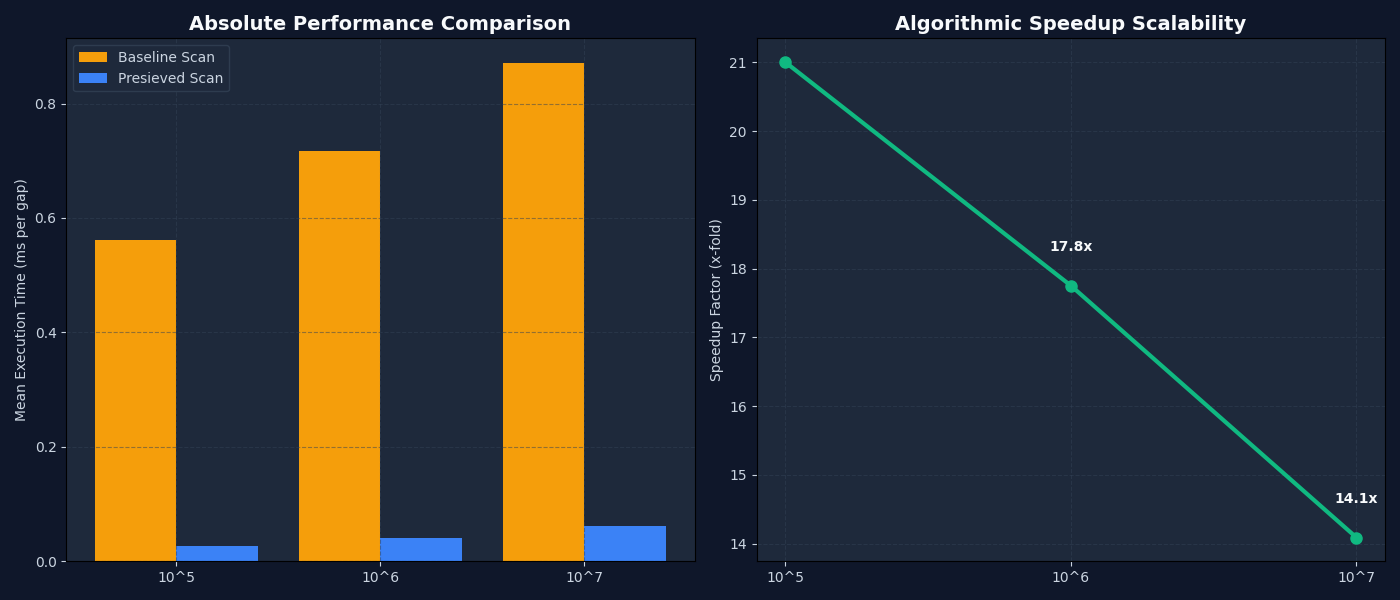
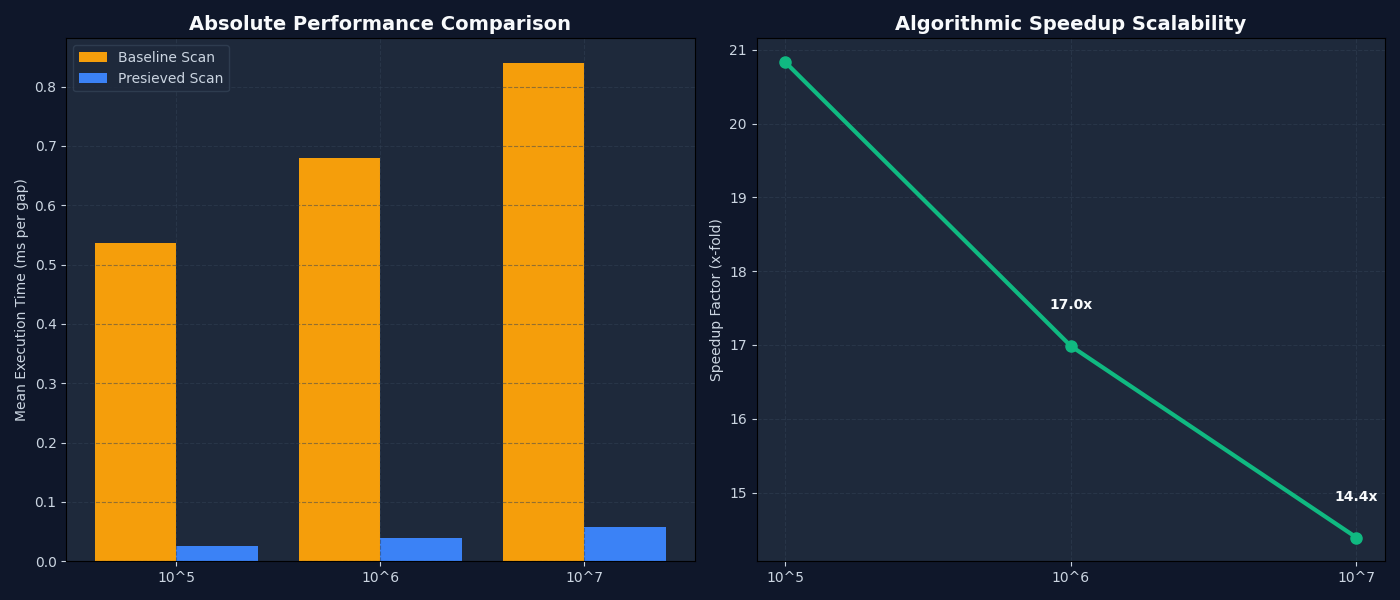
perf: implement fast Miller-Rabin fallback and iterative non-re-sieving expansion in GWR whitepaper

diff --git a/experiments/decompwlj-pgs/gwr_presieve_whitepaper.py b/experiments/decompwlj-pgs/gwr_presieve_whitepaper.py
@@ -207,6 +207,36 @@ def _presieve_interval(lo: int, hi: int) -> tuple[list[int], list[int]]:
 
     return partial_counts, residuals
 
+def _is_prime_miller_rabin(n: int) -> bool:
+    """Deterministic Miller-Rabin primality test for 64-bit integers."""
+    if n < 2:
+        return False
+    if n in (2, 3, 5, 7, 11, 13, 17, 19, 23, 29, 31, 37):
+        return True
+    if n % 2 == 0 or n % 3 == 0:
+        return False
+        
+    d = n - 1
+    r = 0
+    while d % 2 == 0:
+        d //= 2
+        r += 1
+        
+    bases = (2, 3, 5, 7, 11, 13, 17, 19, 23, 29, 31, 37)
+    for a in bases:
+        if a >= n:
+            continue
+        x = pow(a, d, n)
+        if x == 1 or x == n - 1:
+            continue
+        for _ in range(r - 1):
+            x = pow(x, 2, n)
+            if x == n - 1:
+                break
+        else:
+            return False
+    return True
+
 def _finish_tau_residual(partial_count: int, residual: int) -> int:
     """Resolve final divisor count from partial count and residual cofactor.
     
@@ -227,62 +257,67 @@ def _finish_tau_residual(partial_count: int, residual: int) -> int:
             if gmpy2.is_prime(root):
                 return divisor_count * 3
     else:
-        # Fallback pure python primality and square check
+        # Fallback pure Python primality and square check
         # Check if square
         root = math.isqrt(residual)
         if root * root == residual:
-            # Check if root is prime
-            is_prime = True
-            for i in range(2, math.isqrt(root) + 1):
-                if root % i == 0:
-                    is_prime = False
-                    break
-            if is_prime and root > 1:
+            if _is_prime_miller_rabin(root):
                 return divisor_count * 3
         # Check if prime
-        is_prime = True
-        for i in range(2, math.isqrt(residual) + 1):
-            if residual % i == 0:
-                is_prime = False
-                break
-        if is_prime and residual > 1:
+        if _is_prime_miller_rabin(residual):
             return divisor_count * 2
             
     return divisor_count * 4
 
-def gwr_next_gap_profile_presieved(q: int, cutoff: int | None = None) -> dict:
+def gwr_next_gap_profile_presieved(q: int, initial_cutoff: int | None = None) -> dict:
     """Optimized GWR boundary scanner utilizing the pre-sieved heuristic."""
+    cutoff = initial_cutoff
     if cutoff is None:
         cutoff = max(64, math.ceil(0.5 * math.log(q) ** 2))
-    lo = q + 1
-    hi = q + cutoff
-    partial_counts, residuals = _presieve_interval(lo, hi)
+        
     best_d = None
     best_offset = None
+    lo = q + 1
+    current_hi = q
+    partial_counts: list[int] = []
+    residuals: list[int] = []
+    start_offset = 1
     
-    for index, partial_count in enumerate(partial_counts):
-        offset = index + 1
-        needs_endpoint_check = partial_count == 1
-        can_improve = best_d is None or partial_count < best_d
-        
-        # Skip residual classification if not required
-        if not needs_endpoint_check and not can_improve:
-            continue
+    while True:
+        target_hi = q + cutoff
+        if target_hi > current_hi:
+            new_lo = current_hi + 1
+            new_hi = target_hi
+            new_partials, new_residuals = _presieve_interval(new_lo, new_hi)
+            partial_counts.extend(new_partials)
+            residuals.extend(new_residuals)
+            current_hi = target_hi
             
-        d = _finish_tau_residual(partial_count, residuals[index])
-        if d == 2:
-            return {
-                "current_prime": q,
-                "next_prime": q + offset,
-                "gap_boundary_offset": offset,
-                "winner_d": best_d,
-                "winner_offset": best_offset,
-            }
-        if best_d is None or d < best_d:
-            best_d = d
-            best_offset = offset
+        end_offset = current_hi - q
+        for offset in range(start_offset, end_offset + 1):
+            index = offset - 1
+            partial_count = partial_counts[index]
+            needs_endpoint_check = partial_count == 1
+            can_improve = best_d is None or partial_count < best_d
             
-    return gwr_next_gap_profile_presieved(q, cutoff * 2)
+            if not needs_endpoint_check and not can_improve:
+                continue
+                
+            d = _finish_tau_residual(partial_count, residuals[index])
+            if d == 2:
+                return {
+                    "current_prime": q,
+                    "next_prime": q + offset,
+                    "gap_boundary_offset": offset,
+                    "winner_d": best_d,
+                    "winner_offset": best_offset,
+                }
+            if best_d is None or d < best_d:
+                best_d = d
+                best_offset = offset
+                
+        start_offset = end_offset + 1
+        cutoff *= 2
 
 # -----------------------------------------------------------------------------
 # 2. Benchmarking and Visualizations
